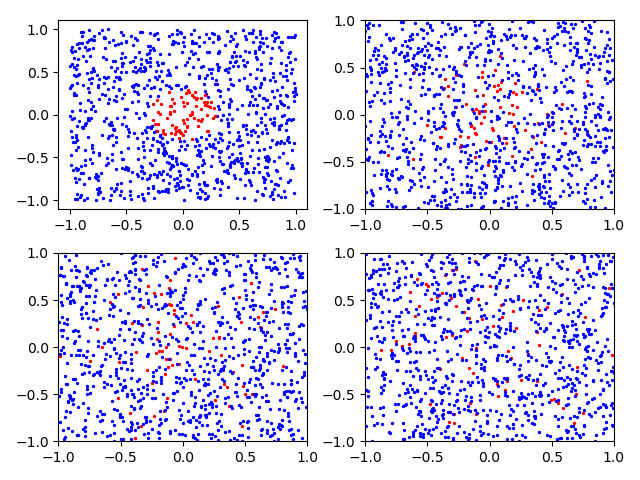
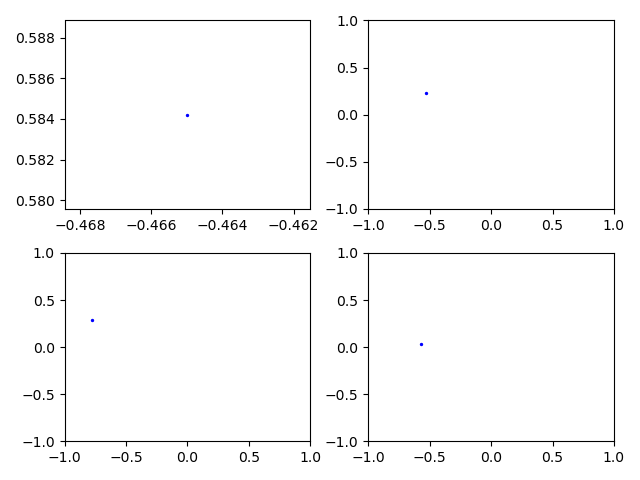
.

diff --git a/particle_simulation.py b/particle_simulation.py
@@ -9,11 +9,12 @@ class InitialState:
         # Important constant 
         self.sub_1 = []
         self.sub_2 = []
-        self.Np = 1000
+        self.Np = 1
         self.h = 0.1
         self.time = 0.0
         self.tEnd = 0.4
-        self.D = 0.1i
+        self.D = 0.1
+        
         self.lower_lim = -1
         self.upper_lim = 1
         self.Nx = 10
@@ -267,6 +268,9 @@ initial_state.call_out_taskA()
 #print(concentration_plot.Np)
 #concentration_plot.single_plot()
 #concentration_plot.calculate_concentration()
+print(initial_state.sub_1)
+print(initial_state.sub_2)
+
 
 
 #concentration_plot.calculate_concentration()
